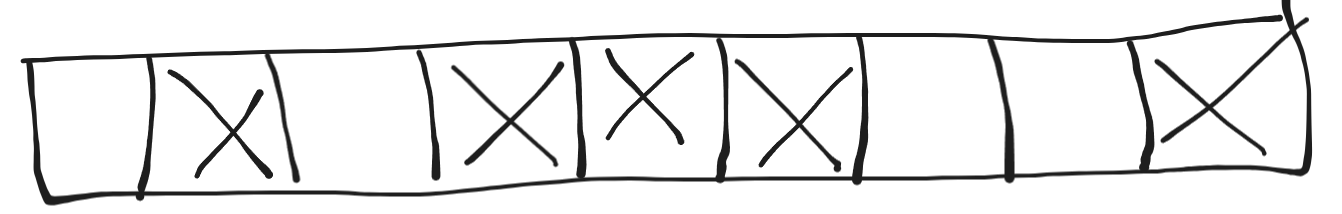
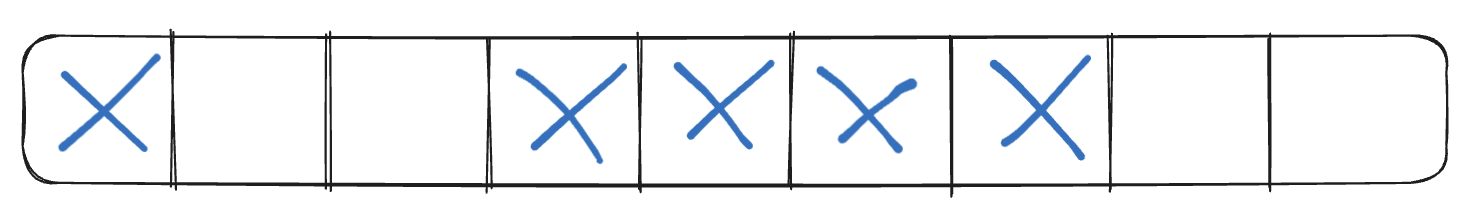
Update part 1 for more easier to understand

Changed region(s): [[0.0, 0.0, 1.0, 0.9706]]

diff --git a/content/posts/garbage_collection/part_1/index.md b/content/posts/garbage_collection/part_1/index.md
@@ -13,6 +13,8 @@ Khi còn học trên giảng đường, các bạn thường được nghe giả
 
 Khi khởi chạy, các chương trình sẽ tạo ra các tiến trình (process) tương ứng; mỗi tiến trình sẽ có 1 vùng nhớ riêng biệt, cô lập ở trên vùng nhớ vật lý (RAM) và không share chung vùng nhớ với các tiến trình khác. Trên thực tế, khi làm việc với các vùng nhớ trong các chương trình, chúng ta không thật sự "tương tác" trực tiếp với vùng nhớ vật lý, mà thực chất hệ điều hành sẽ cho chương trình 1 vùng nhớ ảo (virtual memory) để xử lý trên đó. Chúng ta có thể hiểu nó như 1 interface để tương tác với vùng nhớ vật lý, công dụng của nó dùng để ngăn chặn việc các chương trình cố gắng can thiệp vào vùng nhớ vật lý để gây hại cho hệ thống. Đó là lý do khi sử dụng các lệnh log để in ra địa chỉ của các object thì nó là địa chỉ của vùng nhớ ảo chứ không phải địa chỉ của vùng nhớ vật lý. Mặc định thì với hệ điều hành 32 bit thì sẽ cấp phát tối đa mỗi tiến trình là 2GB vùng nhớ ảo còn 64 bit là 8TB.
 
+![Tiến trùng và vùng nhớ ảo](./processes.png)
+
 ### Các trạng thái của vùng nhớ ảo
 
 Vùng nhớ ảo, hay cụ thể hơn là các block vùng nhớ của nó, sẽ có 3 trạng thái sau:
@@ -33,7 +35,7 @@ Khi chương trình chạy đến những đoạn code cần cấp phát vùng n
 
 Như hình trên, ta thấy rằng dù số ô nhớ free là 4 (những ô không đánh dấu X) nhưng do chúng nằm rời rạc nhau nên chương trình không thể yêu cầu cấp phát vùng nhớ cho object của `Foo` được.
 
-### Cấp phát vùng nhớ
+### Vùng nhớ heap (managed heap)
 
 Như đã đề cập, khi chương trình khởi chạy nó sẽ tạo ra 1 tiến trình và yêu cầu hệ điều hành cấp 1 vùng nhớ ảo cho tiến trình đó. Khi chúng ta khởi tạo 1 object trong chương trình, chúng ta không thực chất tương tác trực tiếp với vùng nhớ ảo này, mà runtime của chương trình sẽ tạo ra 1 "layer" mới trên vùng nhớ ảo này giúp các object khởi tạo vào đó và còn được gọi là vùng nhớ heap (managed heap). Như vậy có thể hiểu rằng vùng nhớ ảo là do tiến trình quản lý còn các managed heap sẽ do runtime của chương trình quản lý giúp tương tác với vùng nhớ ảo. Nếu các bạn sử dụng các native code trong chương trình thì có thể can thiệp vào vùng nhớ ảo trực tiếp luôn.
 
@@ -46,89 +48,57 @@ Tóm lại về cơ bản chúng ta có 3 layer của vùng nhớ:
 
 Vùng nhớ ảo có thể mở rộng đến kích thước tối đa cho phép của 1 tiến trình (2GB cho 32bit và 8TB cho 64bit) và vùng nhớ heap có thể mở rộng tối đa đến kích thước hiện tại của vùng nhớ ảo đang chứa nó.
 
-Để quản lý heap thì chương trình cũng sẽ sử dụng 1 con trỏ (pointer) trỏ vào địa chỉ nơi mà đối tượng tiếp theo được khởi tạo sẽ được đặt vào đó.
+### Cấp phát vùng nhớ (allocation)
 
-![Con trỏ vùng nhớ heap](./heap_ptr.png)
+Để cấp phát vùng nhớ cho object mới thì chương trình cũng sẽ sử dụng 1 con trỏ (pointer) trỏ vào địa chỉ nơi mà object tiếp theo được khởi tạo sẽ được đặt vào đó. Sau khi object tiếp theo được khởi tạo, vị trí của con trỏ được cập nhật và dời xuống cuối block nhớ của object vừa được tạo.
 
-### Giải phóng vùng nhớ
+![Con trỏ vùng nhớ heap](./heap_ptr.gif)
 
-Garbage collector của các ngôn ngữ sẽ có những cơ chế riêng để quyết định xem khi nào là phù hợp để đi "dọn rác". Về cơ bản, những garbage collector này sẽ duyệt qua các object đang có trong chương trình, bắt đầu từ entry point hay root của chương trình và đi qua các object, các field là object bên trong object,... và từ đó lập ra đồ thị kết nối giữa các object với nhau. Ví dụ, nếu object `Foo` có 1 field bên trong là object `Bar`, khi đó đồ thị sẽ có cạnh nối giữa 2 object với nhau chứng tỏ object `Bar` có đường đi đến thông qua `Foo`. Lúc này chắc các bạn cũng đoán được, những object nào không có đường đi trong đồ thị xuất phát từ root (unreachable objects) thì những object đó không còn được sử dụng nữa và sẵn sàng để thu hồi.
+### Giải phóng vùng nhớ (deallocation)
 
-```java
-public static void main() {
-    Foo foo = new Foo();
-    foo.barObj = new Bar();
+Không phải lúc nào chúng ta cũng có thể cấp phát liên tục vùng nhớ mới vì tài nguyên là có hạn. Sẽ có những lúc chúng ta buộc phải nói lời chia tay (giải phóng) với những object đã tạo trước đó để dành chỗ cho những object mới. Khi một object được xem là unreachable object và điều kiện kích hoạt garbage collector đã thỏa mãn (phần sau chúng ta sẽ đi sâu vào mấy cái này) thì garbage collector sẽ bắt đầu việc thu dọn và giải phóng những vùng nhớ không còn sử dụng nữa. Garbage collector chỉ đơn giản duyệt qua các object không còn xài nữa, gọi đến native API để đánh dấu là ô nhớ của object đó là unallocated. Tuy nhiên hạn chế của phương pháp này là sẽ gây ra hiện tượng vùng nhớ phân mảnh như đã đề cập.
+
+![Giải phóng mặc định](no_compact.png)
+
+Để giải quyết vấn đề này thì các garbage collector sẽ sử dụng phương pháp compact hoặc di dời vùng nhớ. Phương pháp này sử dụng kỹ thuật two pointers rất phổ biến (ít nhất là đối với đám chuyên giải competitive programming hay Leetcode). Về cơ bản, ngoài con trỏ mình đã đề cập ở phần trên (tạm gọi là `right_ptr`), thì chúng ta sẽ có thêm 1 con trỏ (tạm gọi là `left_ptr`) nữa duyệt từ đầu đến cuối vùng nhớ. Trong quá trình duyệt, nó sẽ tìm những ô nhớ chưa được sử dụng (unallocated) và dừng lại sau khi đã tìm thấy. Con trỏ `right_ptr` thì ngược lại, duyệt từ cuối đến đầu vùng nhớ và dừng nếu thấy có ô nhớ nào đang được sử dụng. Khi `left_ptr` trỏ vào ô nhớ chưa được sử dụng và `right_ptr` trỏ vào ô nhớ đang được sử dụng, thuật toán sẽ swap giá trị của 2 con trỏ, đồng thời đặt vào vị trí của `right_ptr` 1 tham chiếu đến vị trí của `left_ptr`. Tham chiếu này được sử dụng để cập nhật địa chỉ của những tham chiếu khác trỏ vào vị trí cũ của object khi còn ở `right_ptr`. Khó hiểu quá phải không, nói đơn giản là ví dụ quán ăn nhà các bạn đang ở `right_ptr`, khi các bạn dọn quán sang địa chỉ mới `left_ptr` thì thông thường các bạn sẽ treo 1 tấm biển kiểu như "đã dọn quán sang `left_ptr`" để những khách hàng từng ăn trước đó biết địa chỉ mới của các bạn.
+
+![Compact memory](compact.gif)
+
+## Một số khái niệm cơ bản trong garbage collector
+
+Như đã đề cập ở trên, khi một object là unreachable object thì tức là object đó không còn được sử dụng nữa và có thể được giải phóng khi các điều kiện đã thỏa mãn. Vậy khi nào 1 object được xem là không còn được sử dụng nữa và những điều kiện cần thiết để garbage collector được kích hoạt là gì?
+
+### Unreachable objects
+
+Khi runtime của chương trình bắt đầu chạy, nó sẽ tạo ra đồ thị các tham chiếu giữa các object. Mỗi đỉnh trên đồ thị là 1 object còn các cạnh nối giữa các object là các tham chiếu. Các đỉnh xuất phát được gọi là root, những đỉnh này có thể giống như hàm main của chương trình, stack,...
+
+```javascript
+const foo = new Foo();
+foo.bar = new Bar();
+```
+
+![Reachable objects](reachable.png)
+
+Như hình trên, đầu tiên mình tạo object `foo`, sau đó là khởi tạo object `bar` trong `foo`, như vậy tức là ta có tham chiếu đi từ `foo` đến `bar`. Ngoài ra, trước `foo` còn có thể có những object khác dẫn đến `foo` và xuất phát từ root chẳng hạn. Lúc này chắc các bạn có thể đoán được: những object nào có tham chiếu, hay đường đi từ root đến nó thì là reachable object còn những object nào không có đường đi sẽ là unreachable object. Đó là những object không còn được sử dụng nữa và có thể được thu dọn. Một ví dụ dễ hiểu cho unreachable object mà có thể các bạn hay gặp:
+
+```javascript
+function getText() {
+  return (new Text('lorem ipsum')).text;
 }
 ```
 
-![Object reachable](./reachable_objects.png)
+Ở hàm `getText()`, chúng ta khai báo object trong cụm `new Text('lorem ipsum')`, sau đó chúng ta lấy giá trị từ `text` và trả về kết quả. Như vậy sau khi hàm `getText()` được trả về thì object được khởi tạo bên trong cũng đã mất đi tham chiếu từ root đến nó và trở thành unreachable object.
 
-Cơ chế giải phóng vùng nhớ nếu giải thích cơ bản thì cũng cực kỳ đơn giản. Nó chỉ đơn giản là copy mớ reachable objects và ghép lại sát với nhau trên vùng nhớ heap, xong rồi set lại vị trí con trỏ của vùng nhớ heap là xong, phần còn lại sẽ là unreachable objects và garbage collectior sẽ call xuống native giải phóng.
+### Điều kiện để kích hoạt garbage collector
 
-![Object before collected](./object_before_collected.png)
-
-Giả sử chúng ta có 3 object A (3 ô nhớ), B (4 ô nhớ), C (3 ô nhớ) như hình, pointer của heap đang trỏ vào ô nhớ phía sau C và object B hiện đang unreachable. Garbage collector sẽ tiến hành copy 3 ô nhớ từ object C sang kế object A và set lại vị trí của pointer:
-
-![Alt text](./object_after_collected.png)
-
-Thông thường quá trình dọn rác sẽ không diễn ra liên tục theo thời gian thực (real-time) mà sẽ có những điều kiện riêng để garbage collector bắt đầu đi dọn rác. Những điều kiện đó như sau:
+Giả sử chúng ta có 1 loạt các unreachable object rồi thì tiếp theo sẽ thế nào? Garbage collector sẽ bắt đầu đi dọn dẹp ngay sao? Tất nhiên là không. Thông thường quá trình dọn rác sẽ không diễn ra liên tục theo thời gian thực (real-time) mà sẽ có những điều kiện riêng để garbage collector bắt đầu đi dọn rác. Những điều kiện đó như sau:
 
 * Dung lượng của vùng nhớ vật lý của hệ thống đang thấp. Hệ điều hành sẽ quản lý việc kiểm soát vùng nhớ này và nó sẽ ra thông báo cho chương trình khi vùng nhớ có dung lượng thấp.
 * Thông thường runtime sẽ set 1 ngưỡng (threshold) dung lượng cho vùng nhớ heap. Ngưỡng này có thể tăng hoặc giảm tùy theo điều kiện của chương trình lúc đó. Nếu tổng dung lượng từ các object đang có vượt quá ngưỡng này thì garbage collector sẽ tiến hành dọn các unreachable objects. Nếu dọn xong mà vẫn vượt threshold thì sẽ gọi đến runtime để tăng threshold lên (thường xảy ra khi gọi Factory để tạo hàng loạt object hay import một lượng lớn data vào mảng chẳng hạn).
 * Hàm GC được gọi, cái này thì hên xui tùy theo ngôn ngữ. Có ngôn ngữ support gọi trực tiếp garbage collector có ngôn ngữ thì không.
 * Object là large object, tức là những object có kích thước lớn hơn 1 giới hạn nào đó (mỗi ngôn ngữ sẽ mỗi khác, như C# là [85000 byte](https://learn.microsoft.com/en-us/dotnet/standard/garbage-collection/fundamentals#:~:text=The%20large%20object%20heap%20contains%20objects%20that%20are%2085%2C000%20bytes%20and%20larger)). Mặc định thì runtime sẽ chia heap thành nhiều generation khác nhau, và 1 trong số những generation đó là dành cho large object. Các object thông thường thì khi unreachable phải đợi đến khi thỏa 1 trong những điều kiện trên thì garbage collector mới dọn; riêng large object thì chỉ cần unreachable là garbage collector sẽ dọn nó luôn.
 
-## Generation của garbage collector
-
-Thuật toán của garbage collector dựa trên những yếu tố sau nhằm tối ưu việc dọn dẹp:
-
-* Copy một phần nhỏ trong vùng nhớ heap sẽ nhanh hơn so với cả 1 vùng nhớ heap.
-* Các object mới tạo thường có xu hướng sẽ có "thời gian tồn tại" (short-lived lifetime) ngắn hơn so với những object đã xuất hiện từ lâu (long-lived lifetime).
-* Các object mới tạo thường sẽ phụ thuộc vào nhau và có thể được truy cập bởi chương trình trong 1 "khoảng thời gian". Ví dụ như trong hàm `foo()` các bạn khai báo các object bên trong thì những object đó sẽ chỉ được sử dụng bên trong hàm `foo()` đó và hết tác dụng khi hàm kết thúc.
-
-Thông thường thì garbage collector đa số sẽ đi dọn những short-lived objects trong suốt cả chương trình hơn là những long-lived objects. Điều này cũng có nghĩa là số lượng short-lived objects, hay nói dễ hiểu là những object vừa tạo ra xong và xài có một lúc là đã không còn cần thiết nữa, là rất nhiều. Để tối ưu hóa, runtime sẽ chia vùng nhớ heap thành 3 generation chính là 0, 1 và 2 để có thể quản lý các short-lived và long-lived objects cho hiệu quả. Giải thích cơ bản thì các object sẽ được lưu ở generation 0 khi vừa được tạo và nếu như nó "sống sót" sau quá trình dọn rác thì sẽ được đưa lên các generation tiếp theo. Như đã đề cập ở trên:
-> Copy một phần nhỏ trong vùng nhớ heap sẽ nhanh hơn so với cả 1 vùng nhớ heap.
-
-Do đó việc chia vùng nhớ heap thành nhiều phần sẽ giúp tối ưu trong việc copy vùng nhớ hơn vì garbage collector có thể chỉ cần phải thực hiện copy để dọn vùng nhớ ở 1 generation thôi là đủ thay vì phải copy toàn bộ vùng nhớ heap.
-
-### Generation 0
-
-Đây là generation "trẻ tuổi" nhất và dùng để chứa các short-lived objects. Một ví dụ đơn giản  dễ hiểu của short-lived object là những biến khai báo tạm như `const auth_token = (new AuthTokenGenerator(auth_context)).token`. Các bạn có thể thấy phần khai báo object `new AuthTokenGenerator` bên trong chỉ được sử dụng 1 lần duy nhất để lấy token và sau khi lấy token xong thì object đó cũng mất reference và trở thành unreachable object. Trên thực tế thì có rất nhiều những đoạn code với các object được khai báo chỉ xài đúng 1 hoặc chỉ vài lần trong 1 phạm vi nhỏ như các hàm xử lý đơn giản và nhanh nên đó cũng là lý do việc dọn rác sẽ thường xuyên diễn ra nhiều nhất ở generation 0.
-
-Các object khi vừa khởi tạo sẽ nằm ở generation 0. Tuy nhiên, chúng ta vẫn còn đó 1 loại object khác mình đã nói ở trên: large object. Riêng loại này thì cho ra chỗ khác nằm, large object khi được tạo sẽ nằm trong vùng nhớ large object heap, đôi khi người ta gọi nó là generation 3 nhưng thực tế generation 3 này là 1 phần của generation 2. Ví dụ đơn giản nhất cho large object có lẽ là khi đọc từng dòng trong file text vào mảng, mỗi phần tử là 1 dòng. Nếu file có kích thước quá lớn thì lúc này mảng cũng sẽ có kích thước lớn theo và nó sẽ bị chuyển thành large object.
-
-Đa số các object đều sẽ bị thu hồi ngay khi vẫn còn ở generation 0 và chỉ có một số ít mới "sống sót" và được chuyển lên các generation "già" hơn.
-
-Nếu chương trình cố gắng tạo thêm object khi vùng nhớ generation 0 đã đầy thì garbage collector sẽ bắt đầu việc dọn dẹp vùng nhớ này để có thêm không gian trống. Ở đây, một lần nữa, copy 1 phần vùng nhớ sẽ nhanh hơn toàn bộ heap nên garbage collector sẽ chỉ kiểm tra và thu hồi vùng nhớ ở generation 0 và thông thường thì mỗi lần dọn generation 0 là đa số object trong đây cũng đi luôn.
-
-### Generation 1
-
-Đây có thể coi là generation trung gian giữa 0 và 1. Nếu xem generation 0 như sơ sinh thì generation 2 như là thiếu niên. Các object trong generation này vẫn được xem là short-lived objects. Sau khi garbage collector hoàn tất dọn dẹp generation 0, những object may mắn còn sống sót (như kiểu không nằm trong list layoff ấy) sẽ được copy và chuyển lên generation 1 (promote). Quy tắc hoạt động của các generation này khá đơn giản: những object nào không bị thu hồi vùng nhớ thì sẽ có xu hướng tồn tại lâu hơn trong chương trình, do đó việc đẩy những object này lên 1 generation cao hơn sau mỗi lần dọn vùng nhớ là hợp lý.
-
-Việc dọn vùng nhớ các generation cũng đi theo nguyên lý từ thấp đến cao như sau: khi tạo mới 1 object, nếu generation 0 không đủ chỗ -> dọn generation 0. Nếu dọn generation 0 vẫn không đủ chỗ thì sẽ bắt đầu dọn sang generation 1 và sau đó là dọn generation 2. Khi dọn 1 generation thì những object còn sống sót ở generation đó sẽ được đẩy lên generation tiếp theo.
-
-![ready to be collected in gen 0](./ready_to_be_collected_in_gen_0.png)
-
-![collect gen 0](./collect_gen_0.png)
-
-![promote to gen 1](./promote_to_gen_1.png)
-
-### Generation 2
-
-Khi các object được đẩy lên generation 2 thì sẽ được gọi là long-lived objects. Một ví dụ thường gặp cho các long-lived objects là các property, hàm static có trong chương trình. Chúng được tạo ra từ đầu và thường sống sót đến cuối. Khi garbage collector dọn generation 2, những object còn sống sót vẫn tiếp tục ở đây đến khi nào unreachable.
-
-```java
-public static void main() {
-
-}
-```
-Hàm `main` trong Java cũng là 1 ví dụ điển hình vì nó sẽ luôn sống sót qua các lần thu hồi vùng nhớ cho đến khi chương trình kết thúc.
-
-Việc thu hồi một vùng nhớ có nghĩa là thu hồi từ những vùng nhớ thấp hơn đến thu hồi vùng nhớ đó. Ví dụ khi thực hiện thu hồi vùng nhớ generation 1 thì phải thu hồi ở generation 0 trước. Do đó, việc thu hồi ở generation 2 đôi khi còn được gọi là thu hồi toàn bộ vùng nhớ heap vì ta phải thu hồi từ 0 đến 1 rồi mới đến 2.
-
-Lưu ý rằng việc chia 3 generation ở đây chỉ là lý thuyết tổng quát, riêng mỗi ngôn ngữ sẽ có cách thức implement 3 generation này khác nhau. Như Java sẽ chia thành Young, Tenured và Perm. Trong Young sẽ chia thành Eden, Survivor, Spaces, Virtual. Trong Tenured và Perm thì đều sẽ chia thành 1 vùng nhớ buffer và Virtual. Nếu có thời gian mình sẽ đi chi tiết từng GC của một số ngôn ngữ nhưng thường thì mình lười lắm hihi.
-
-Như vậy ở phần đầu này chúng ta đã đi qua về một số kiến thức cơ bản và nâng cao về vùng nhớ cũng như tổng quan quy trình hoạt động của garbage collector. Ở phần sau mình sẽ giới thiệu về cách thức hoạt động bên trong của garbage collector xem thuật toán nó sử dụng là gì để thu dọn vùng nhớ.
+Tất nhiên không phải ngôn ngữ nào cũng áp dụng những điều kiện này. Một số ngôn ngữ như Rust, Python sử dụng cơ chế dọn rác khác so với thông thường thì ngay khi một 1 object là unreachable thì sẽ bị thu hồi ngay lập tức. Ở phần sau chúng ta sẽ tìm hiểu qua những thuật toán để garbage collector truy ra được những unreachable object và sự khác nhau giữa các loại garbage collector giữa những ngôn ngữ như Java, C#, JavaScript,... và Rust, Python,...
 
 ## Tài liệu tham khảo
 
